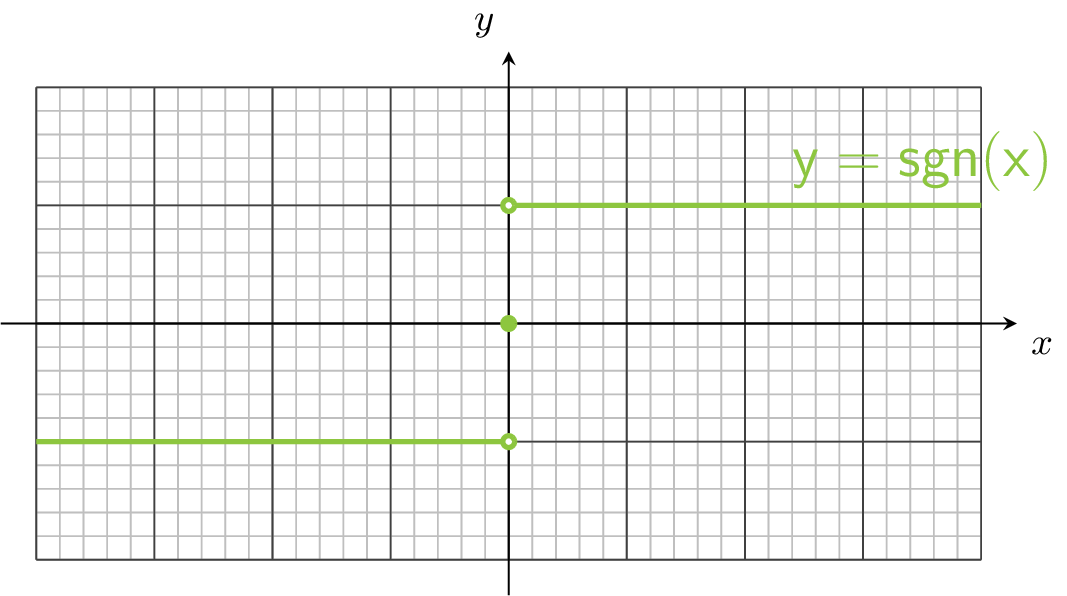
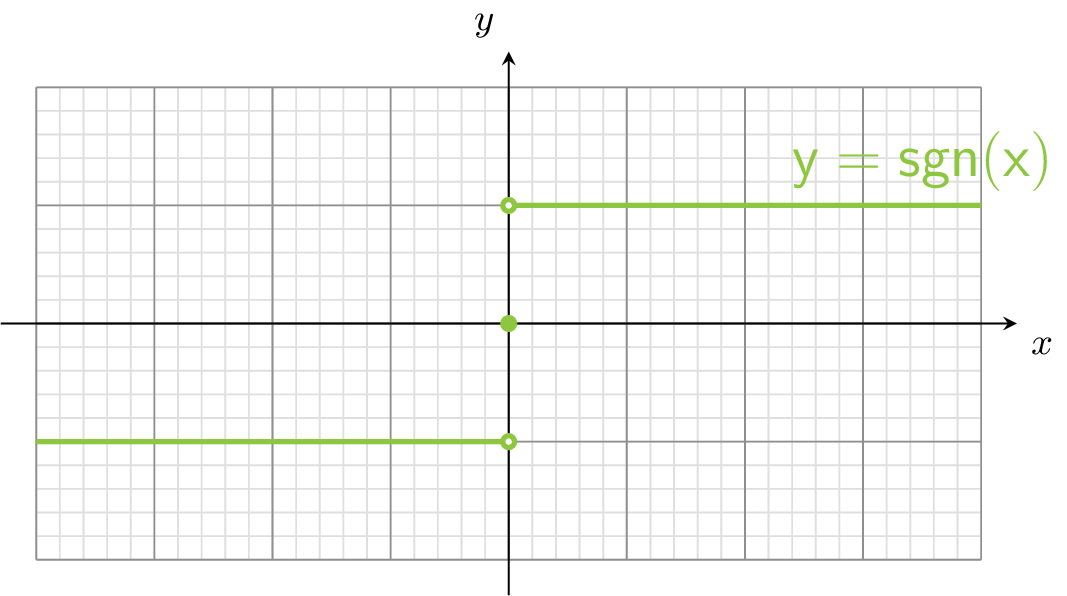
Update images and enhance grid opacity in signum function visuals

diff --git a/04 functies/02 signum functie/description/media/image.tex b/04 functies/02 signum functie/description/media/image.tex
@@ -5,8 +5,8 @@
 \usepackage{tikz}
 \begin{document}
 	\begin{tikzpicture}[font=\small]
-		\draw[black!25, step=0.2cm] (-4,-2) grid (4,2);
-		\draw[black!75, step=1cm] (-4,-2) grid (4,2);
+		\draw[black!25, thin, step=0.2cm, opacity=0.5] (-4,-2) grid (4,2);
+		\draw[black!75, thin, step=1cm, opacity=0.5] (-4,-2) grid (4,2);
 		\draw[black, -stealth] (-4.3,0) -- (4.3,0) node [below right] {$x$};
 		\draw[black, -stealth] (0,-2.3) -- (0,2.3) node [above left] {$y$};
 		\draw[very thick,color=LimeGreen] plot[domain=0:4] (\x, 1); 
